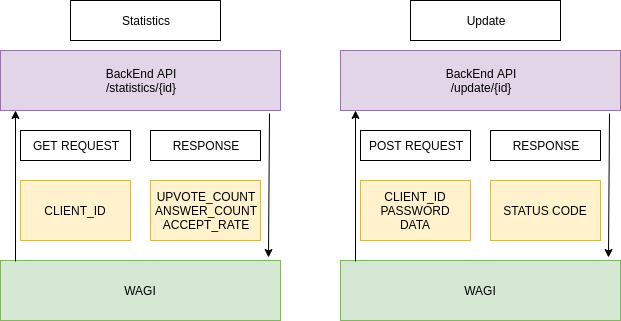
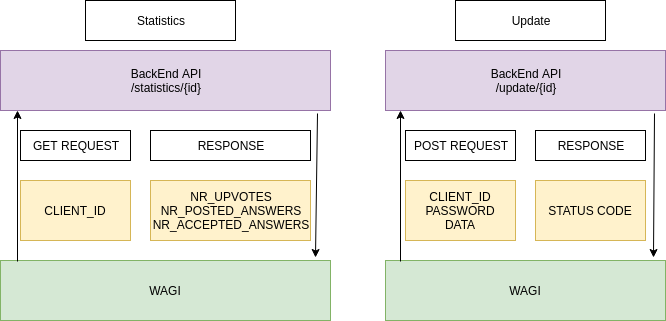
diagrams description

diff --git a/WaGiArchitecture.html b/WaGiArchitecture.html
@@ -459,27 +459,38 @@
             <p style="text-align: center;">
                 <b>Back End API Component Diagrams</b>
             </p>
+            
+            <p>Here are the interactions between different components of the application.</p>
             <figure typeof="sa:Image">
                 <img src="WaGi_files/WaGi-Interaction.png" width="880" height="655">
                 <figcaption>
                     Made with <a href="https://www.draw.io/">Diagrams Editor</a>.
                 </figcaption>
             </figure>
+            
+            <p>Here is an overview of the requests made by the client to the backend, and by the backend to the database.</p>
             <figure typeof="sa:Image">
                 <img src="WaGi_files/WaGi-BackEndRequests.png" width="880" height="655">
                 <figcaption>
                     Made with <a href="https://www.draw.io/">Diagrams Editor</a>.
                 </figcaption>
             </figure>
+            
+            <p>The backend REST API will have 2 mehods:</p>
+            <p>- GET the statistics, which require only the client id as parameter and returns a JSON with all the information from the database (NR_UPVOTES, NR_POSTED_ANSWERS, NR_ACCEPTED_ANSWERS)</p>
+            <p>- UPDATE the statistics, which require the client id, the data which should be updated and the password for the database.</p>
             <figure typeof="sa:Image">
                 <img src="WaGi_files/WaGi-BackEndAPI.png" width="880" height="655">
                 <figcaption>
                     Made with <a href="https://www.draw.io/">Diagrams Editor</a>.
                 </figcaption>
             </figure>
+            
             <p style="text-align: center;">
                 <b>Social Media Component Diagrams</b>
             </p>
+            
+            <p>When the user clicks the Facebook share button, we will redirect him to a page which will share his personal dashboard page. He can also write a short descriptions if he wants.</p>
             <figure typeof="sa:Image">
                 <img src="WaGi_files/WaGi-FacebookShare.png" width="880" height="655">
                 <figcaption>
